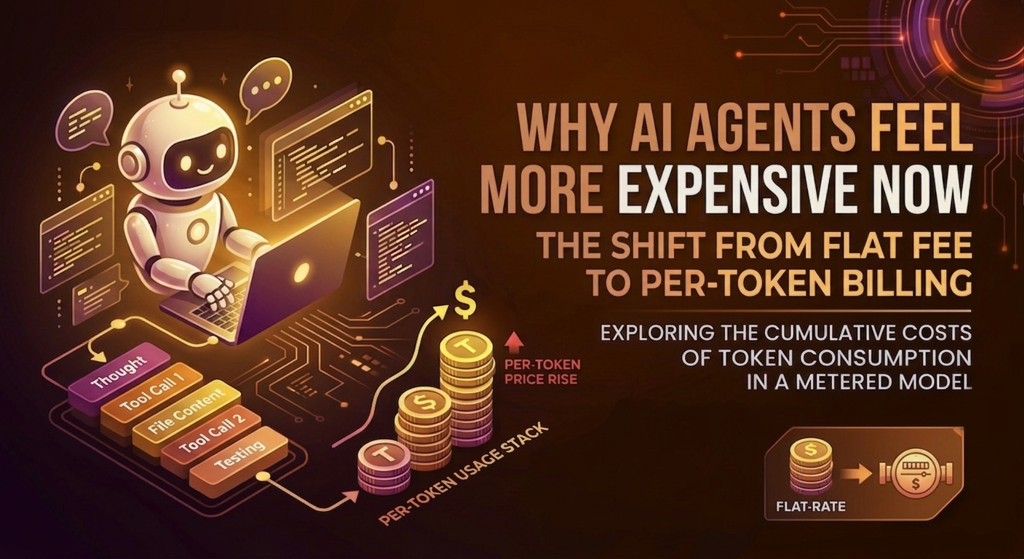
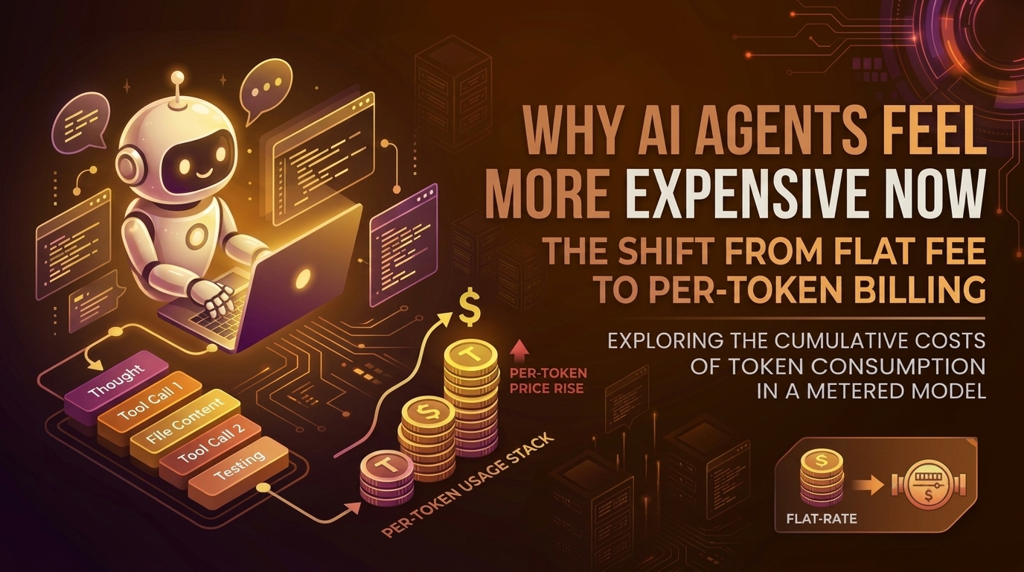
Smaller image for thumbnail

diff --git a/ui/src/components/Blog/BlogCard.tsx b/ui/src/components/Blog/BlogCard.tsx
@@ -22,19 +22,14 @@ export default function BlogCard({ post }: Props) {
       <Card className="cursor-pointer" footer={footer} onClick={() => navigate(`/blog/${post.id}`)}>
         <div className="flex flex-column md:flex-row gap-3">
           {post.bannerImage && (
-            <img
-              src={`/api/blogs/images/${post.bannerImage}`}
-              alt={post.title}
-              className="w-full md:w-16rem"
-              style={{
-                aspectRatio: '16 / 9',
-                objectFit: 'cover',
-                borderRadius: '6px',
-                display: 'block',
-                background: '#1a1a1a',
-              }}
-              loading="lazy"
-            />
+            <div className="w-full md:w-16rem" style={{ aspectRatio: '16 / 9', flexShrink: 0, borderRadius: '6px', overflow: 'hidden', background: '#1a1a1a' }}>
+              <img
+                src={`/api/blogs/images/${post.bannerImage}`}
+                alt={post.title}
+                style={{ width: '100%', height: '100%', objectFit: 'cover', display: 'block' }}
+                loading="lazy"
+              />
+            </div>
           )}
           <div className="flex flex-column flex-1">
             <span className="font-bold text-xl text-pink-400 mb-2">{post.title}</span>

diff --git a/blogs/anatomy-of-an-ai-application.md b/blogs/anatomy-of-an-ai-application.md
@@ -4,7 +4,7 @@ excerpt: Ever wondered what goes into a production-grade AI app? Let's dissect a
 date: 2026-06-05
 readTime: 13 min read
 tags: AI, LangGraph, MCP, LangSmith, Python, Gradio
-bannerImage: 2-1-anatomy-ai-app.png
+bannerImage: 2-0-anatomy-ai-app-thumb.png
 ---
 
 ![Anatomy of AI Application](images/2-1-anatomy-ai-app.png)  

diff --git a/blogs/emergence-of-vectorless-rag.md b/blogs/emergence-of-vectorless-rag.md
@@ -4,7 +4,7 @@ excerpt: Moving past traditional vector stores toward structured page indexing f
 date: 2026-06-23
 readTime: 12 min read
 tags: RAG, Vectorless, PageIndex, LLM, Python
-bannerImage: 4-1-era-or-vectorless-rags.png
+bannerImage: 4-0-era-or-vectorless-rags-thumb.png
 ---
 
 ![Era of Vectorless RAGs](images/4-1-era-or-vectorless-rags.png)

diff --git a/blogs/hidden-cost-of-agent-autonomy.md b/blogs/hidden-cost-of-agent-autonomy.md
@@ -2,7 +2,7 @@
 title: Why AI Coding Assistants Feel So Expensive Now?
 excerpt: Ever wondered why your AI coding assistant feel so costly now? As companies move to metered, per-token billing, the exponential math of agentic loops is finally being revealed.
 date: 2026-07-03
-bannerImage: 5-1-hidden-cost-of-ai-agents-autonomy.png
+bannerImage: 5-0-hidden-cost-of-ai-agents-autonomy-thumb.png
 readTime: 8 min read
 tags: AI, Large Language Models, LLMs, Developer Tools, Software Engineering, Subscriptions, AI Costs
 ---

diff --git a/blogs/manage-your-online-presence.md b/blogs/manage-your-online-presence.md
@@ -4,7 +4,7 @@ excerpt: Ever wondered how to build and host your own portfolio website? Here is
 date: 2026-06-13
 readTime: 14 min read
 tags: Personal Portfolio, Online Presence, Web Development, React, PHP, DevOps
-bannerImage: 3-1-portfolio-hero.png
+bannerImage: 3-0-portfolio-hero-thumb.png
 ---
 
 ![Portfolio](images/3-1-portfolio-hero.png)

diff --git a/blogs/shuffle-deck-without-builtin-random.md b/blogs/shuffle-deck-without-builtin-random.md
@@ -4,7 +4,7 @@ excerpt: A step‑by‑step look at a Python function that uses timestamps and S
 date: 2019-08-07  
 readTime: 8 min read  
 tags: Python, Algorithms, Randomness, Shuffling, Hashing
-bannerImage: 1-1-shuffle-deck.webp  
+bannerImage: 1-0-shuffle-deck-thumb.webp  
 ---
 
 ![Shuffling a deck](images/1-1-shuffle-deck.webp)